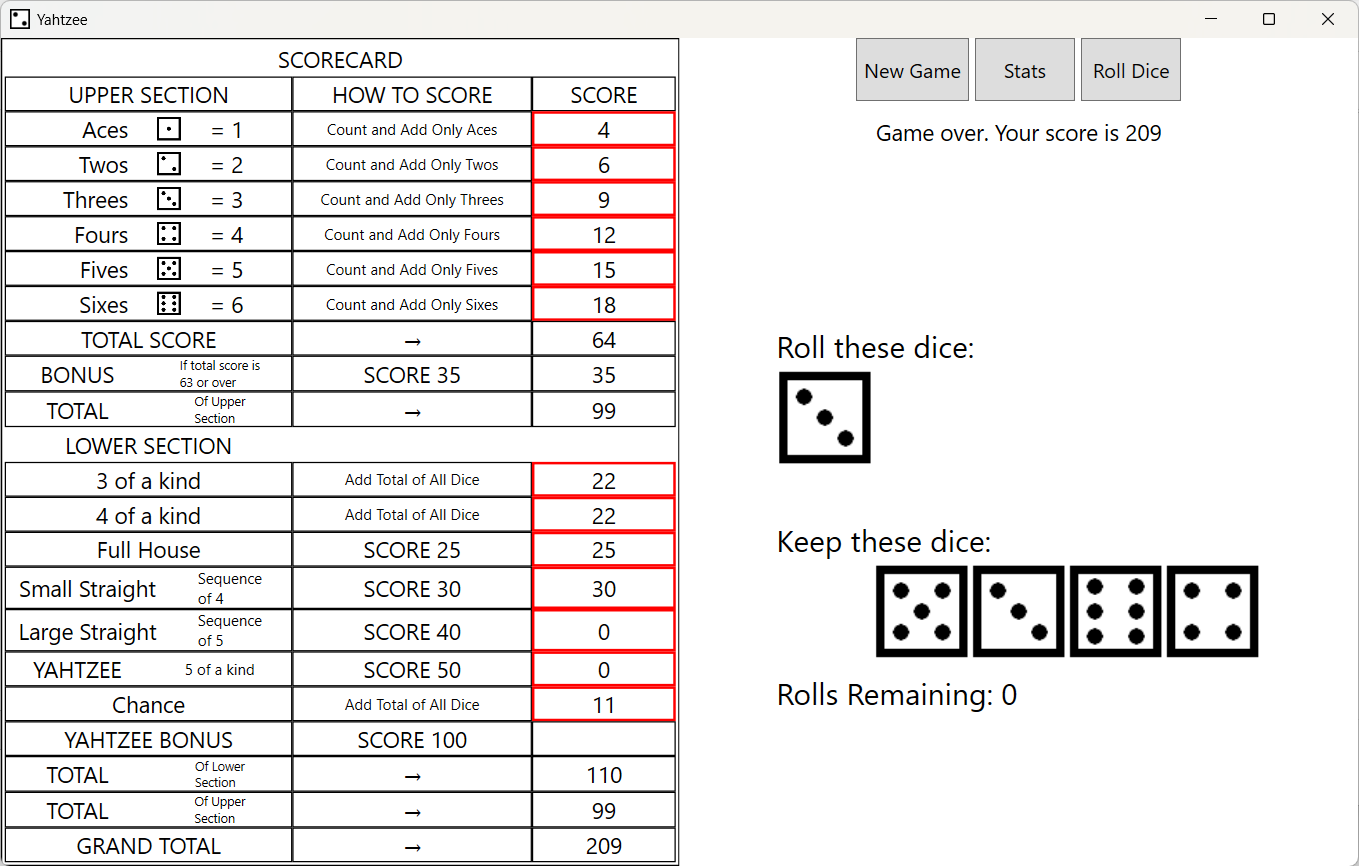
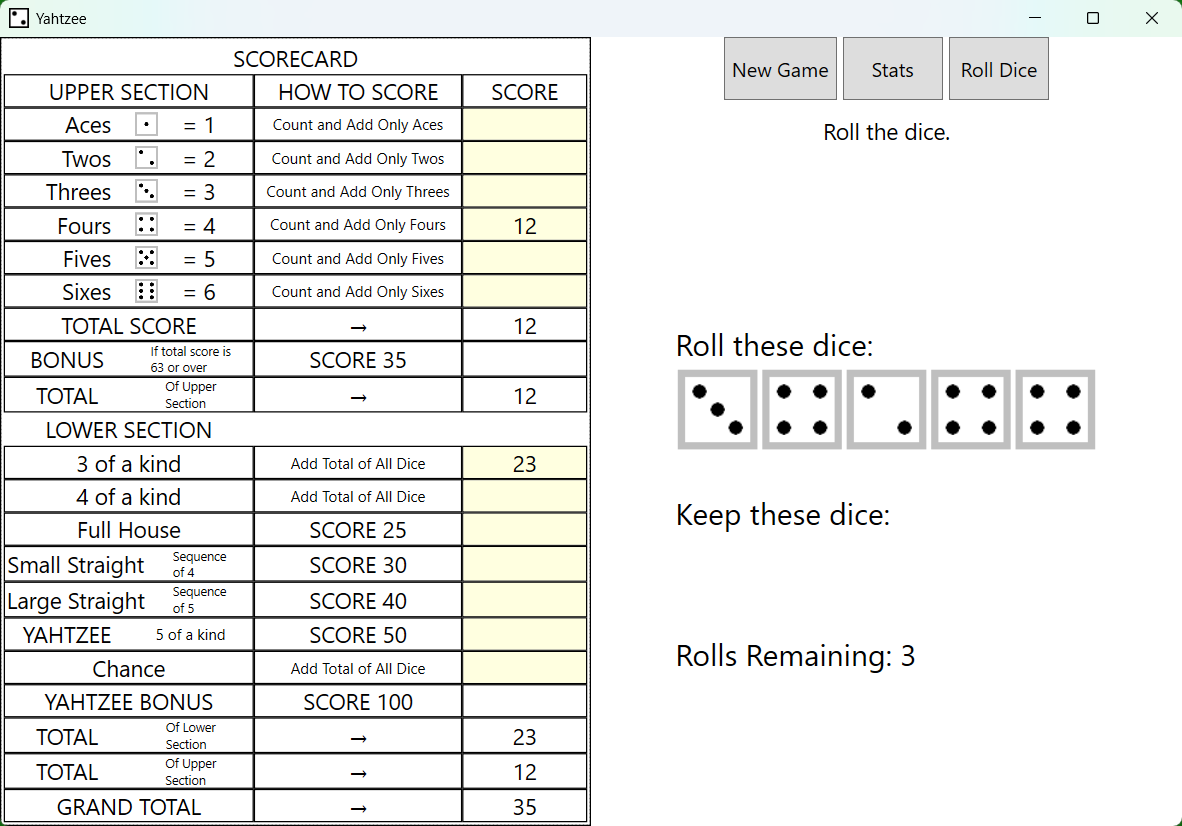
Add files via upload

diff --git a/Yahtzee.html b/Yahtzee.html
@@ -25,7 +25,7 @@
 	<p></p>
     <img src="Yahtzee.png" alt="game">
 	<p>for Windows 10/11</p>
-	<a href="https://drive.google.com/file/d/18roEoWcUrXdzqpqHK1QgxNxUHDR3oIq-/view?usp=sharing">Download Yahtzee</a>
+	<a href="https://github.com/Radish8388/Yahtzee/releases/download/v1.0.0.4/Yahtzee.zip">Download Yahtzee</a>
 	<p>Instructions:</p>
 	<p>1. Download Yahtzee.zip from the link above</p>
 	<p>2. Press the blue Download button</p>